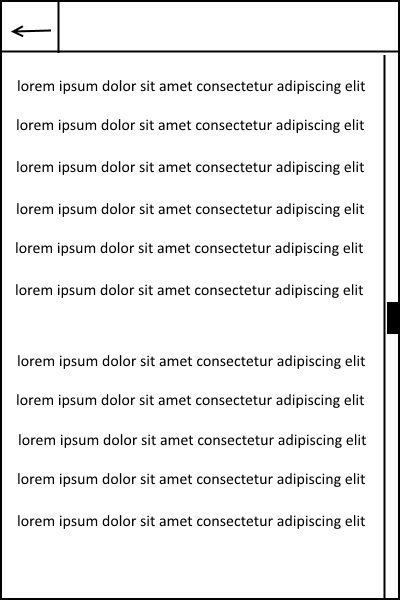
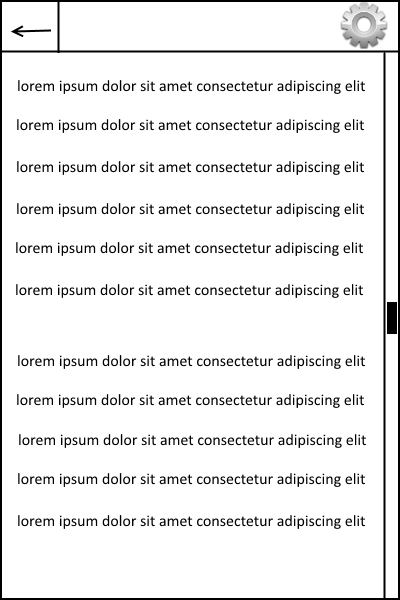
now better and mroe pictures

Changed region(s): [[0.84, 0.0, 0.99, 0.09], [0.99, 0.51, 1.0, 0.57]]

diff --git a/README.md b/README.md
@@ -25,6 +25,8 @@ Some extremely basic sketches:
 
 ![](doc/menupage.png) ![](doc/readpage.png)
 
+![](doc/settingspage.png) ![](doc/statspage.png)
+
 Required data sets and data sources:
 * Source is the epub file (supplied by the user). Dataset could be one very large string?
 * Alternative is lots of strings, one for each paragraphs ("text block"). In htm book files
